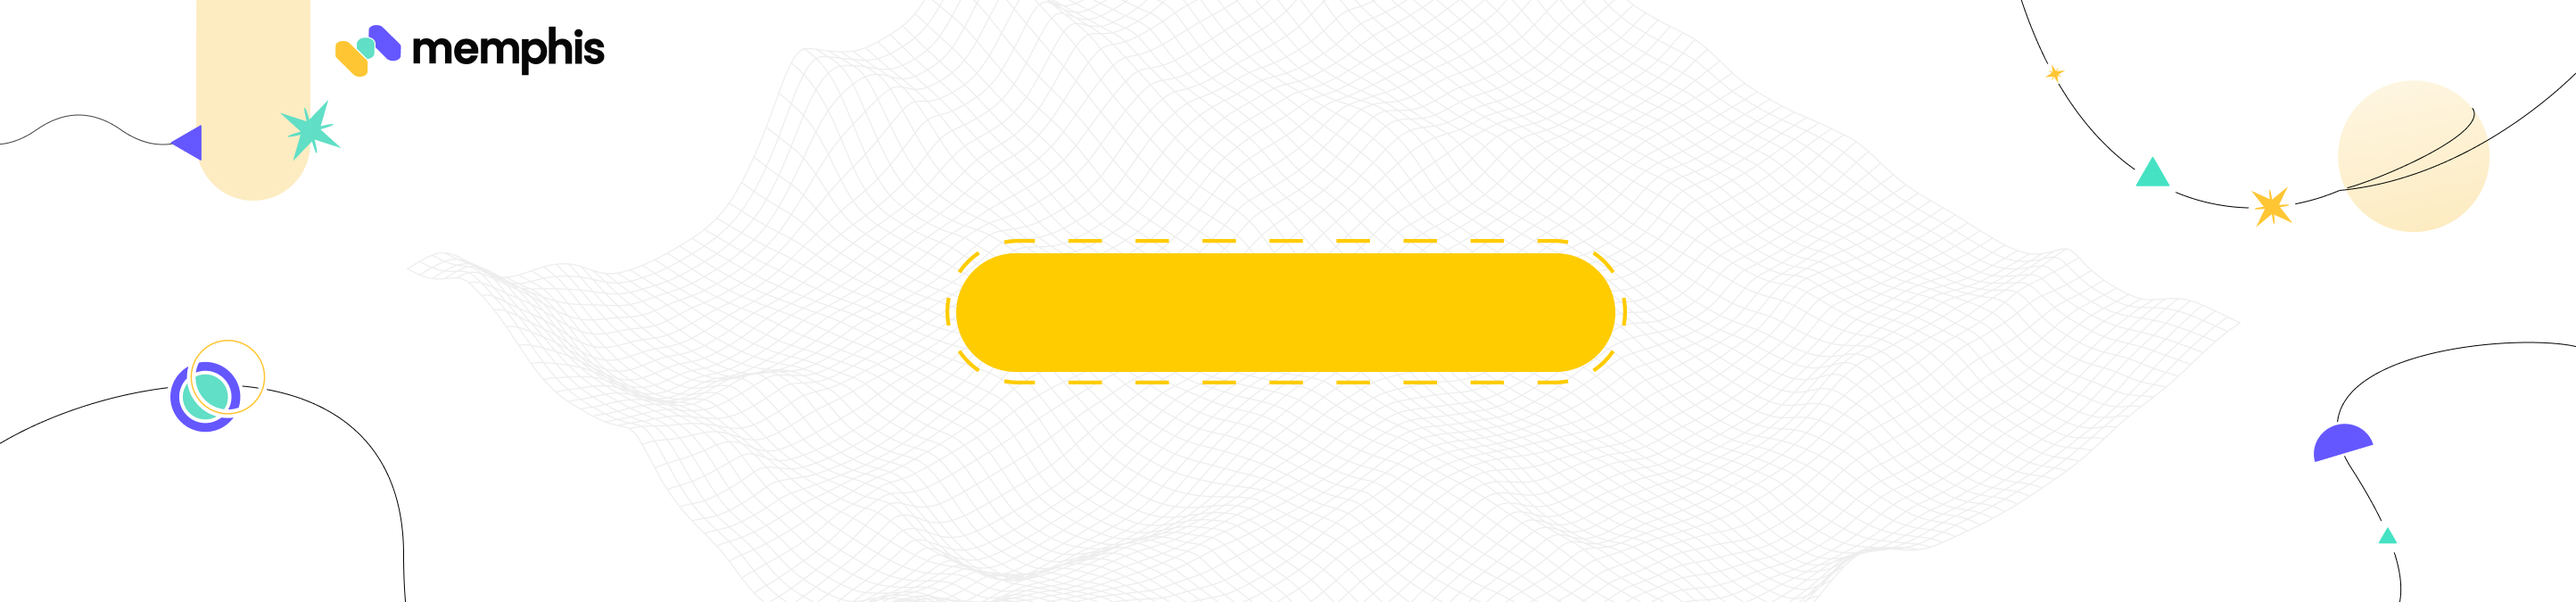
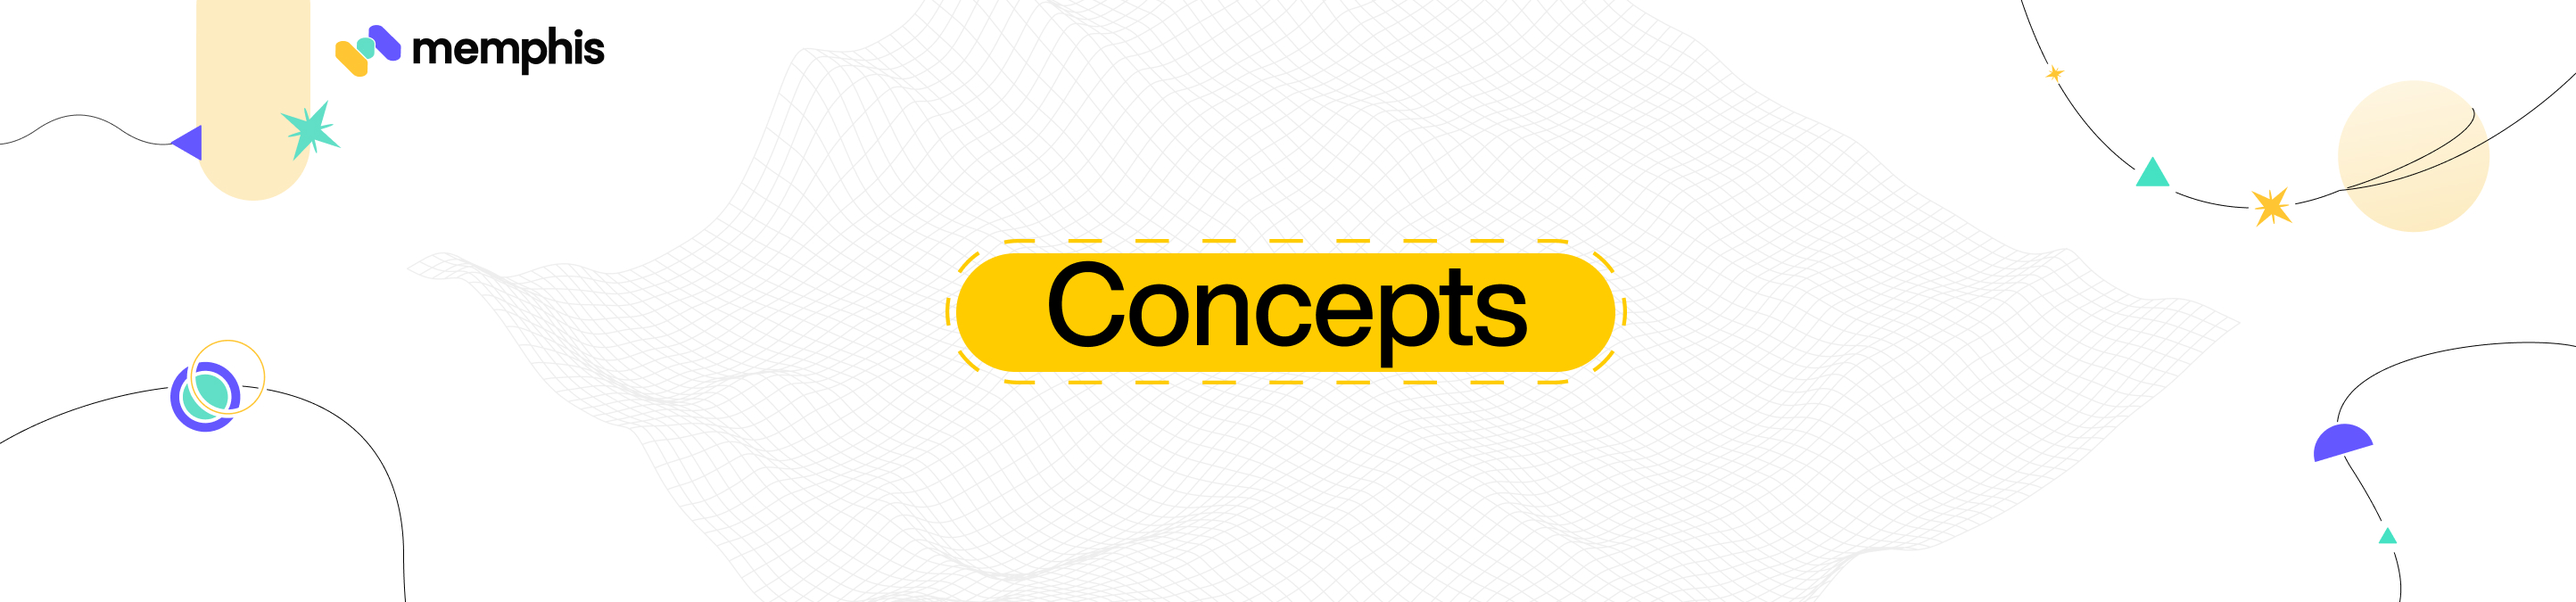
GitBook: [#388] No subject

Changed region(s): [[0.4051, 0.4356, 0.5921, 0.6222]]

diff --git a/memphis/concepts/README.md b/memphis/concepts/README.md
@@ -1,5 +1,5 @@
 ---
-cover: ../../.gitbook/assets/Memphis concepts.jpeg
+cover: ../../.gitbook/assets/Memphis concepts (1).jpeg
 coverY: 0
 ---
 

diff --git a/memphis/concepts/message-broker.md b/memphis/concepts/message-broker.md
@@ -1,5 +1,5 @@
 ---
-cover: ../../.gitbook/assets/Memphis concepts.jpeg
+cover: ../../.gitbook/assets/Memphis concepts (1).jpeg
 coverY: 0
 ---
 

diff --git a/memphis/concepts/station.md b/memphis/concepts/station.md
@@ -1,5 +1,7 @@
 ---
 description: Page under construction
+cover: ../../.gitbook/assets/Memphis concepts (1).jpeg
+coverY: 0
 ---
 
 # Station
